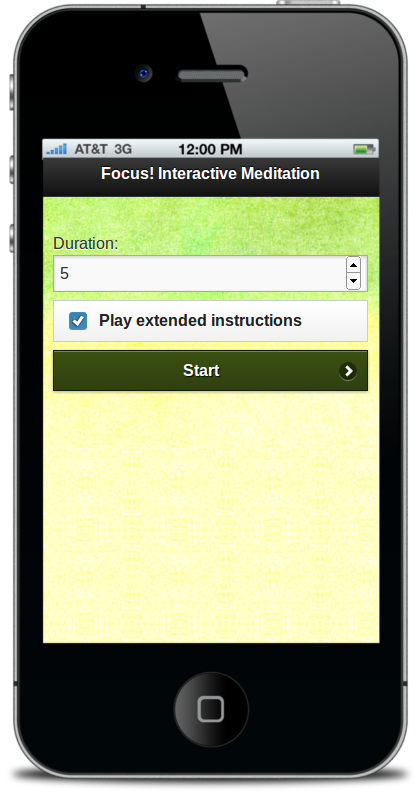
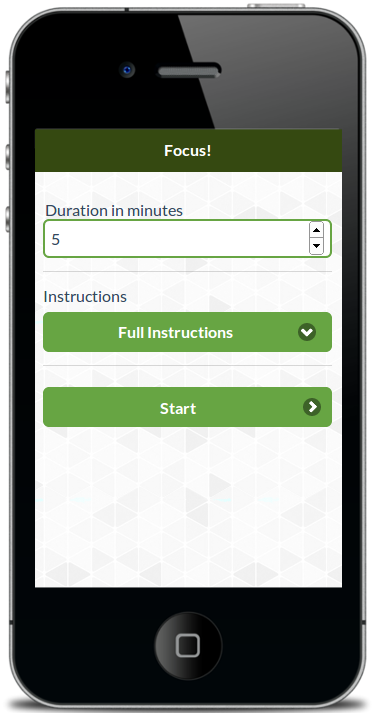
v1.1 new design

diff --git a/src/partials/subscribe.html b/src/partials/subscribe.html
@@ -1,2 +1,2 @@
-<form class="alert alert-success" action="https://tinyletter.com/marknis" method="post" target="popupwindow" onsubmit="window.open('https://tinyletter.com/marknis', 'popupwindow', 'scrollbars=yes,width=800,height=600');return true"><p><label for="tlemail">Enter your email address to get updates and a free e-book</label></p><p><input type="text" style="width:140px" name="email" id="tlemail" placeholder="e-mail"/></p><input type="hidden" value="1" name="embed"/><input class="btn btn-primary btn-large" type="submit" value="Join the adventure!" /></form>
+<form class="alert alert-success" action="https://tinyletter.com/marknis" method="post" target="popupwindow" onsubmit="window.open('https://tinyletter.com/marknis', 'popupwindow', 'scrollbars=yes,width=800,height=600');return true"><p><label for="tlemail">Enter your email address to get updates and a free e-book</label></p><p><input type="text" style="width:140px" name="email" id="tlemail" placeholder="e-mail"/></p><input type="hidden" value="1" name="embed"/><input class="btn btn-primary btn-large" type="submit" value="Get the e-Book!" /></form>
     

diff --git a/src/documents/styles/style.css.less b/src/documents/styles/style.css.less
@@ -1,6 +1,6 @@
 
 body {
-  background: url("/img/bg.jpg") repeat fixed;
+  background: url("/img/bg.png") repeat fixed;
 }
 
 #bg-header {
@@ -38,6 +38,10 @@ footer {
     color: white;
   }
 
+}
+
+.green {
+  color: #68a200;
 }
 
 .intro ul {
